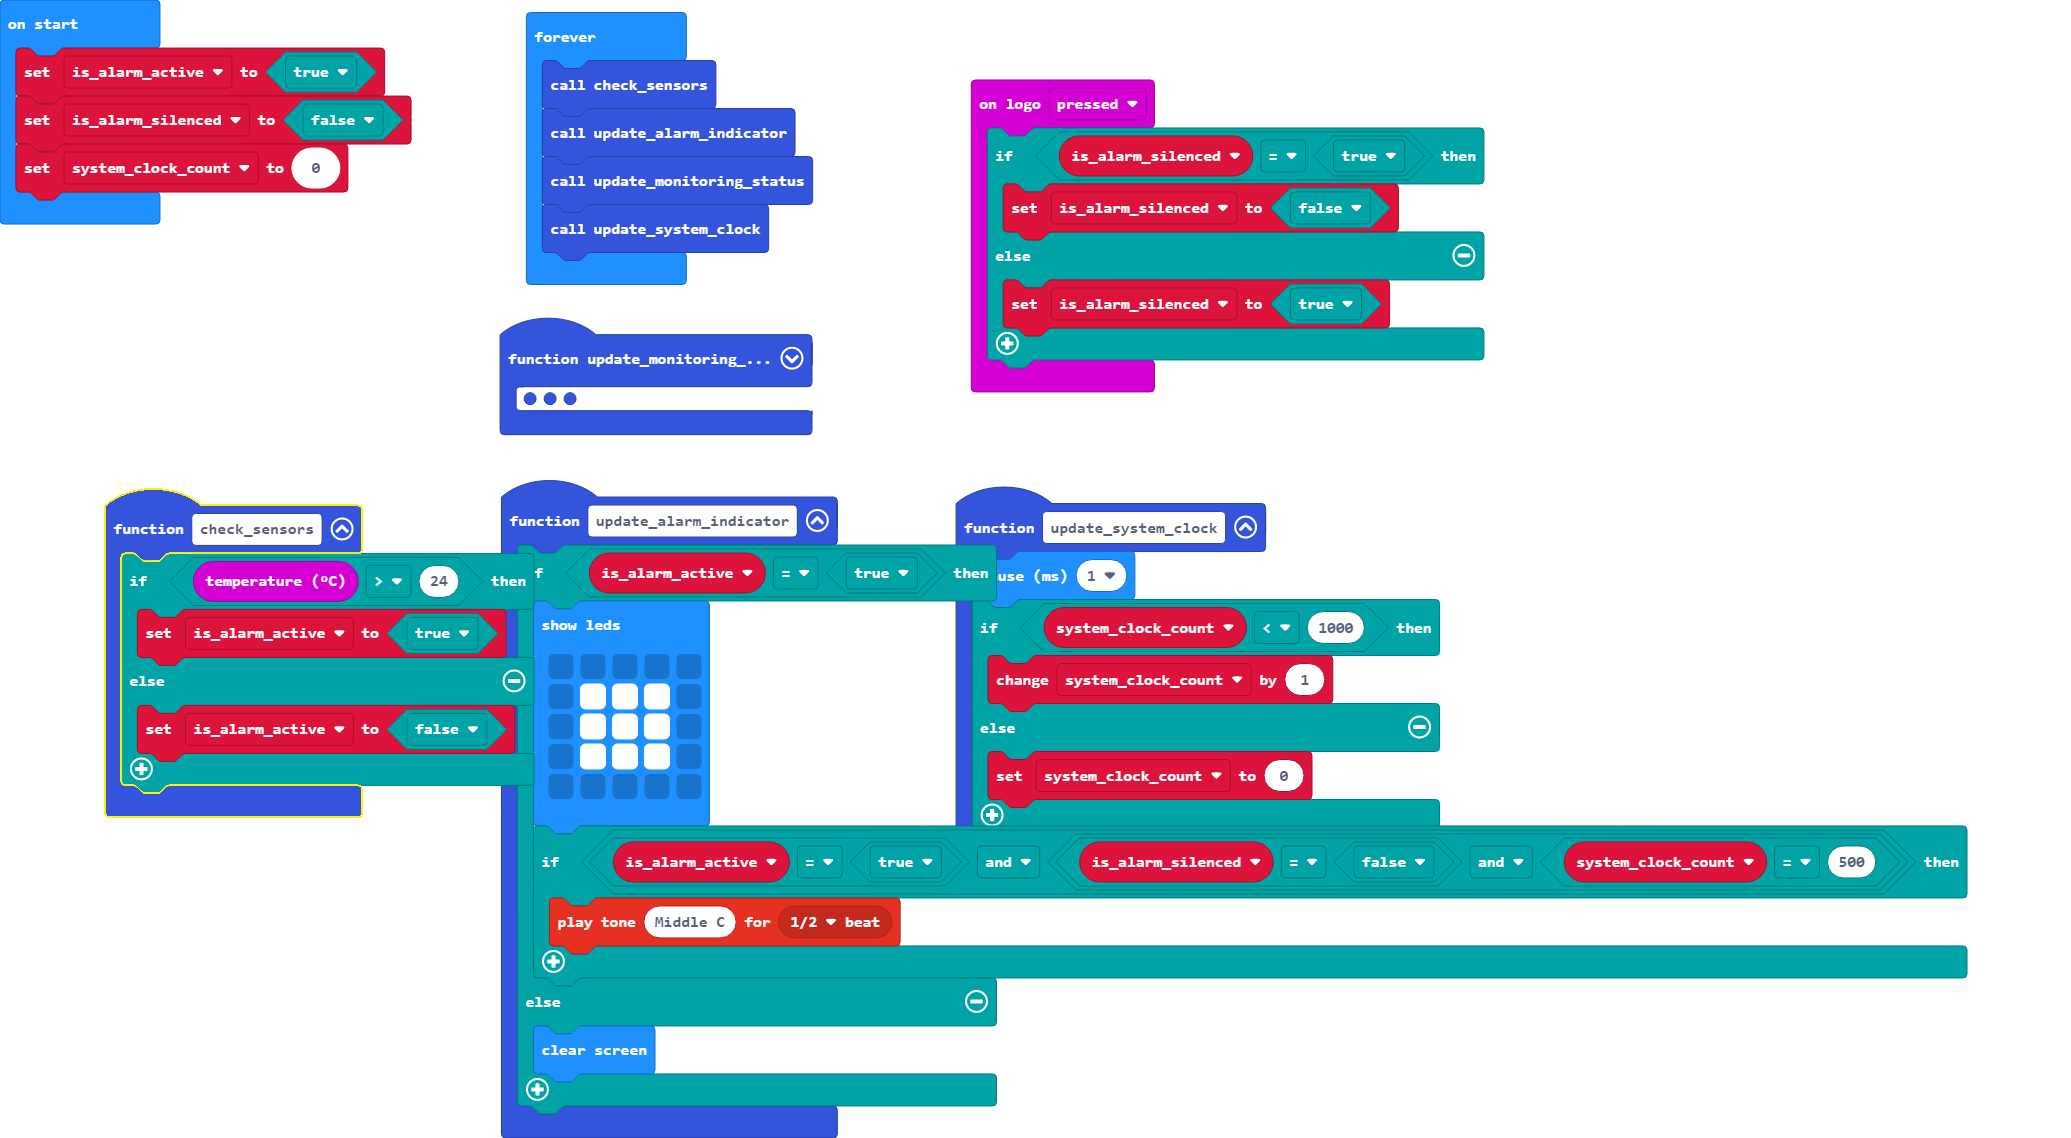
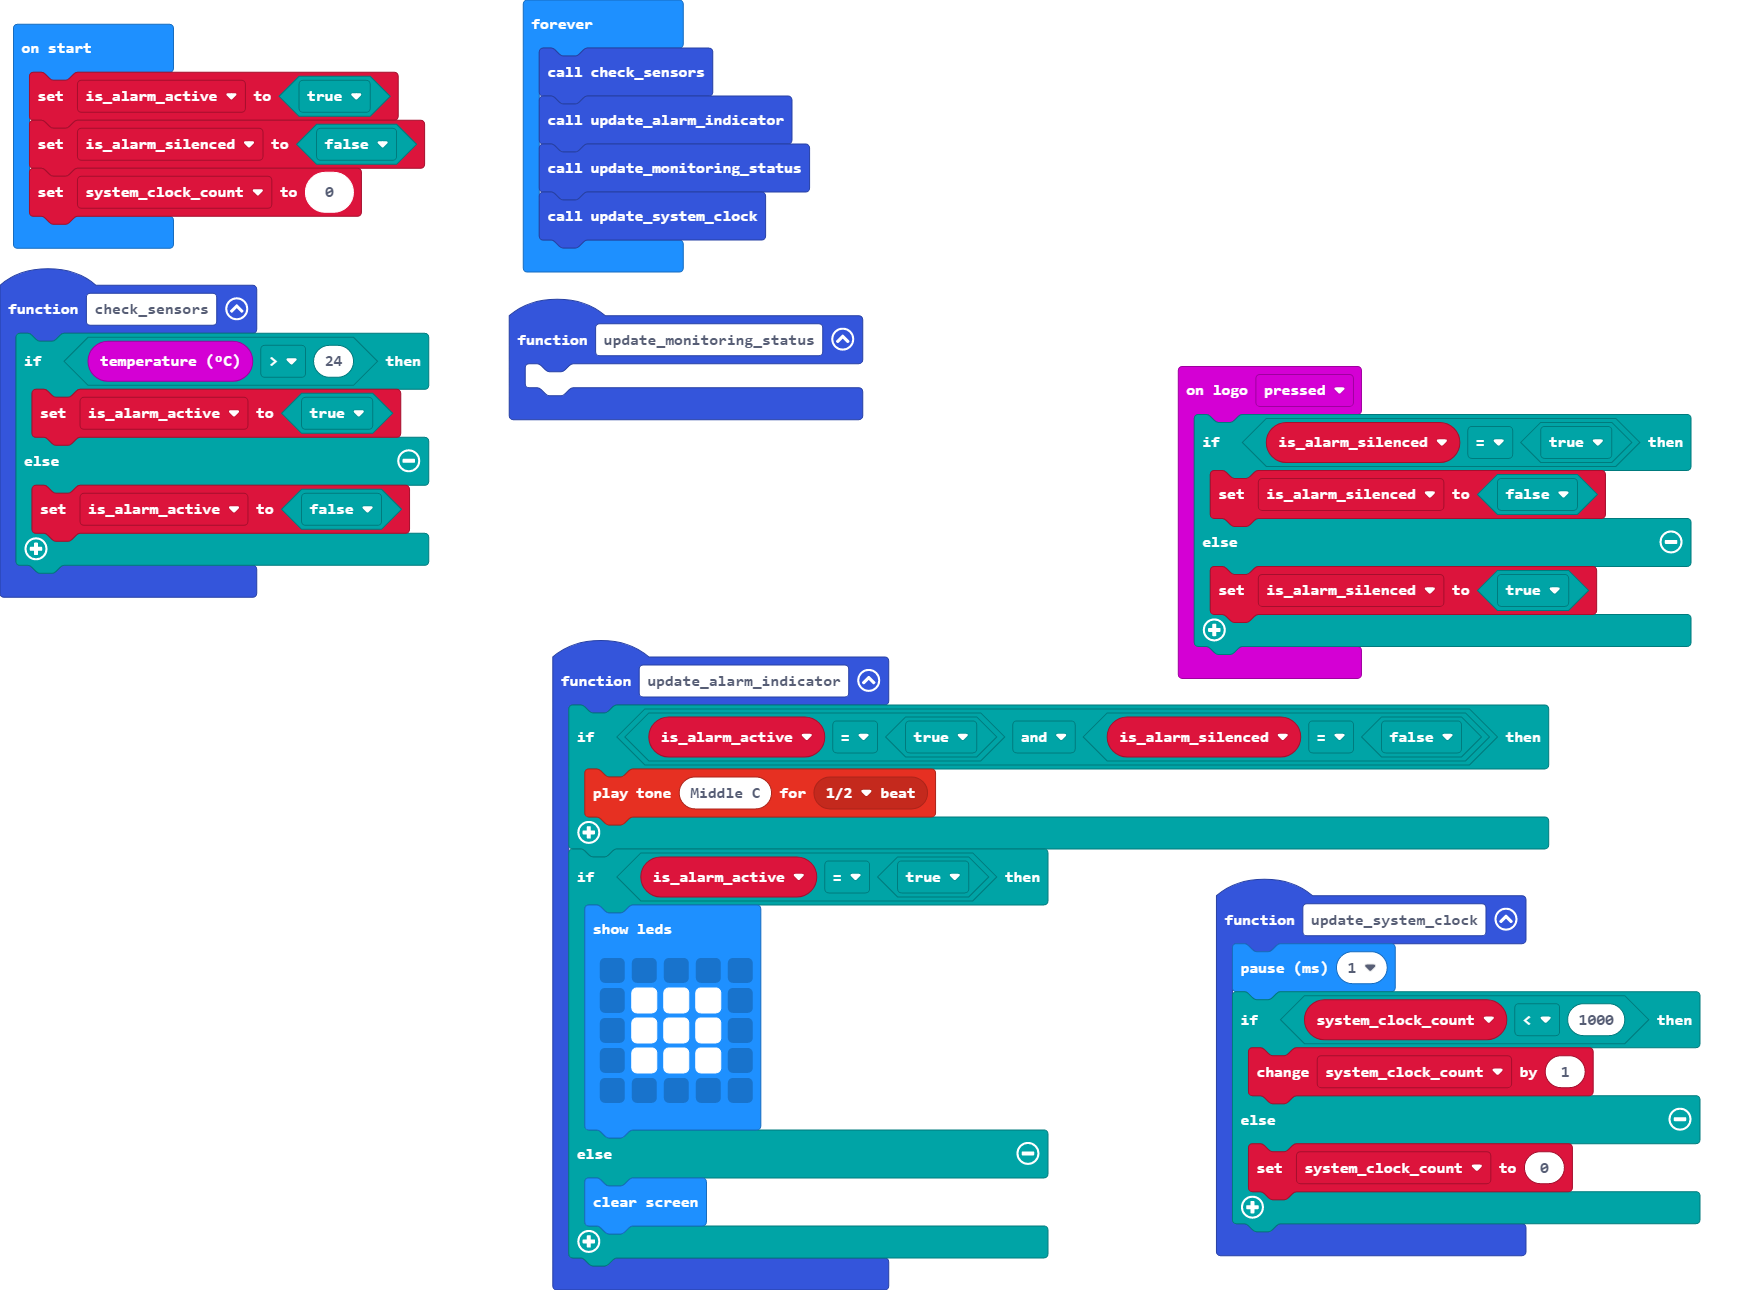
Update main.blocks, main.ts

diff --git a/main.ts b/main.ts
@@ -10,6 +10,9 @@ function update_monitoring_status () {
 	
 }
 function update_alarm_indicator () {
+    if (is_alarm_active == true && is_alarm_silenced == false) {
+        music.playTone(262, music.beat(BeatFraction.Half))
+    }
     if (is_alarm_active == true) {
         basic.showLeds(`
             . . . . .
@@ -18,9 +21,6 @@ function update_alarm_indicator () {
             . # # # .
             . . . . .
             `)
-        if (is_alarm_active == true && (is_alarm_silenced == false && system_clock_count == 500)) {
-            music.playTone(262, music.beat(BeatFraction.Half))
-        }
     } else {
         basic.clearScreen()
     }
